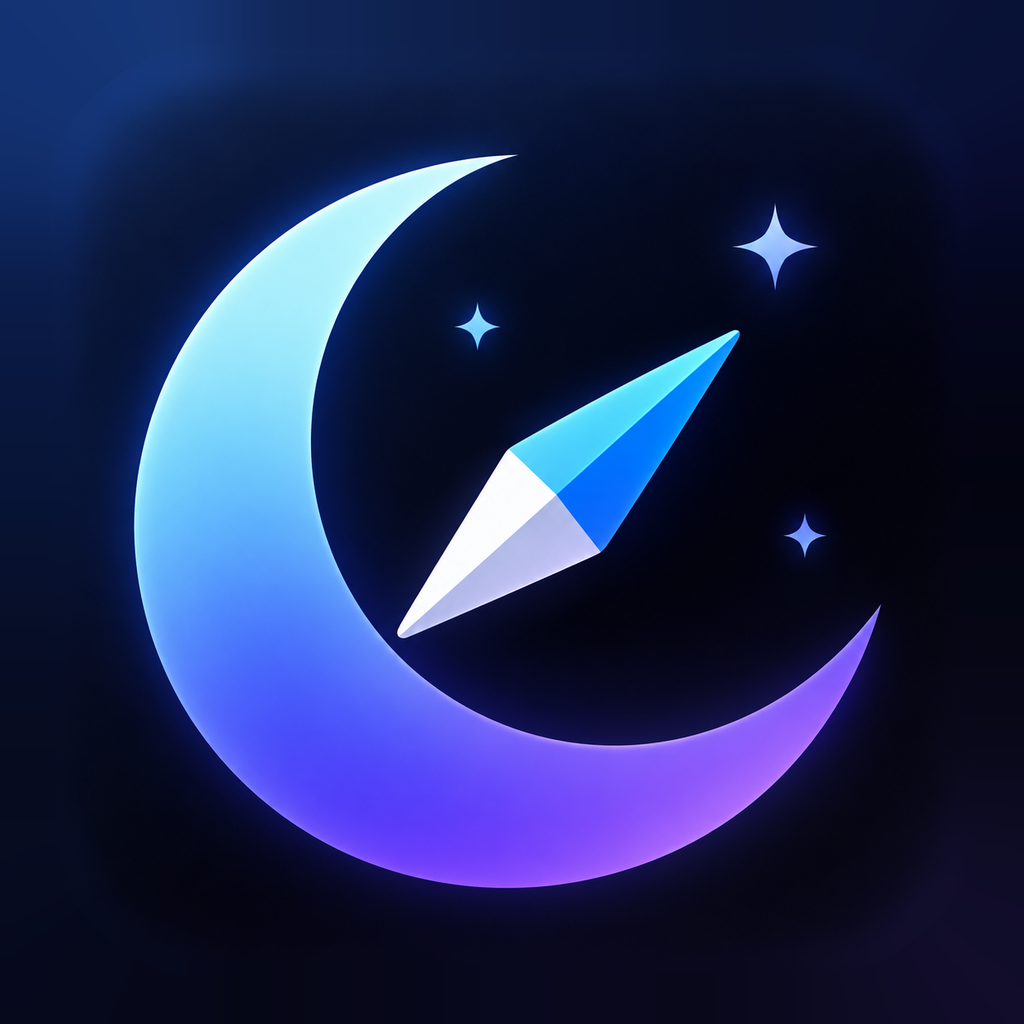
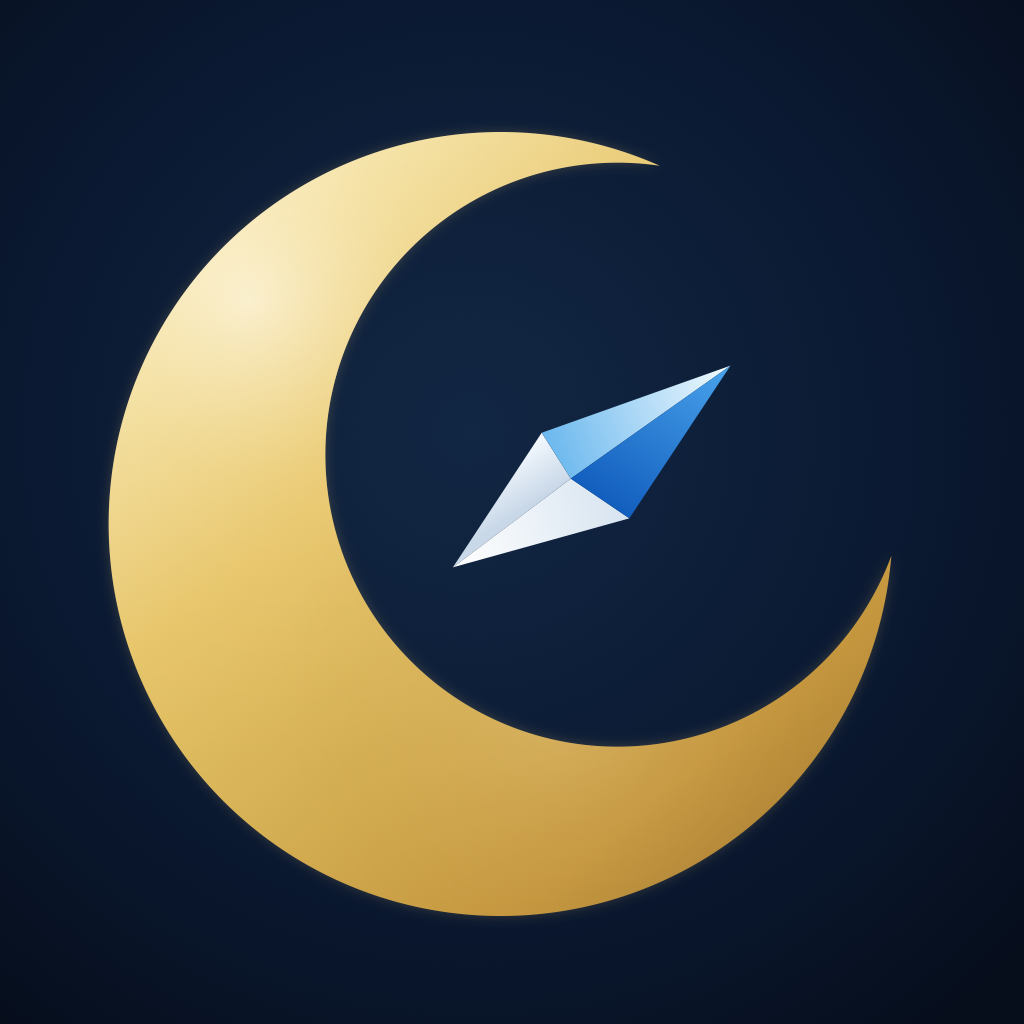
feat(website): integrate G1 gold branding and refine setup localization

diff --git a/privacy/index.html b/privacy/index.html
@@ -20,8 +20,10 @@
   <meta name="twitter:title" content="Privacy Policy – Duskio">
   <meta name="twitter:description" content="Duskio on iPhone, iPad, and Mac processes webpage appearance locally and does not transmit browsing history or webpage content to us.">
   <meta name="twitter:image" content="https://duskio.net/assets/app-icon.png">
-  <link rel="icon" href="/assets/logo-mark.png" type="image/png">
-  <link rel="apple-touch-icon" href="/assets/logo-mark.png">
+  <link rel="icon" href="/assets/favicon-32.png" type="image/png" sizes="32x32">
+  <link rel="icon" href="/assets/favicon-16.png" type="image/png" sizes="16x16">
+  <link rel="icon" href="/assets/logo-mark.png" type="image/png" sizes="256x256">
+  <link rel="apple-touch-icon" href="/assets/apple-touch-icon.png">
   <link rel="stylesheet" href="/css/main.css">
 </head>
 <body>

diff --git a/setup/index.html b/setup/index.html
@@ -20,8 +20,10 @@
   <meta name="twitter:title" content="Set Up Duskio in Safari">
   <meta name="twitter:description" content="Enable Duskio in Safari on iPhone and iPad, allow website access, and start using dark themes.">
   <meta name="twitter:image" content="https://duskio.net/assets/app-icon.png">
-  <link rel="icon" href="/assets/logo-mark.png" type="image/png">
-  <link rel="apple-touch-icon" href="/assets/logo-mark.png">
+  <link rel="icon" href="/assets/favicon-32.png" type="image/png" sizes="32x32">
+  <link rel="icon" href="/assets/favicon-16.png" type="image/png" sizes="16x16">
+  <link rel="icon" href="/assets/logo-mark.png" type="image/png" sizes="256x256">
+  <link rel="apple-touch-icon" href="/assets/apple-touch-icon.png">
   <link rel="stylesheet" href="/css/main.css">
   <link rel="stylesheet" href="/css/setup.css">
 </head>

diff --git a/index.html b/index.html
@@ -20,8 +20,10 @@
   <meta name="twitter:title" content="Duskio – Dark Mode for Safari">
   <meta name="twitter:description" content="Customizable dark mode for Safari on iPhone and iPad, with 27 themes and local processing.">
   <meta name="twitter:image" content="https://duskio.net/assets/app-icon.png">
-  <link rel="icon" href="/assets/logo-mark.png" type="image/png">
-  <link rel="apple-touch-icon" href="/assets/logo-mark.png">
+  <link rel="icon" href="/assets/favicon-32.png" type="image/png" sizes="32x32">
+  <link rel="icon" href="/assets/favicon-16.png" type="image/png" sizes="16x16">
+  <link rel="icon" href="/assets/logo-mark.png" type="image/png" sizes="256x256">
+  <link rel="apple-touch-icon" href="/assets/apple-touch-icon.png">
   <link rel="stylesheet" href="/css/main.css">
   <script type="application/ld+json">
   {

diff --git a/support/index.html b/support/index.html
@@ -20,8 +20,10 @@
   <meta name="twitter:title" content="Duskio Support">
   <meta name="twitter:description" content="Setup, appearance modes, themes, and troubleshooting for Duskio in Safari.">
   <meta name="twitter:image" content="https://duskio.net/assets/app-icon.png">
-  <link rel="icon" href="/assets/logo-mark.png" type="image/png">
-  <link rel="apple-touch-icon" href="/assets/logo-mark.png">
+  <link rel="icon" href="/assets/favicon-32.png" type="image/png" sizes="32x32">
+  <link rel="icon" href="/assets/favicon-16.png" type="image/png" sizes="16x16">
+  <link rel="icon" href="/assets/logo-mark.png" type="image/png" sizes="256x256">
+  <link rel="apple-touch-icon" href="/assets/apple-touch-icon.png">
   <link rel="stylesheet" href="/css/main.css">
   <script type="application/ld+json">
   {

diff --git a/terms/index.html b/terms/index.html
@@ -20,8 +20,10 @@
   <meta name="twitter:title" content="Terms of Use – Duskio">
   <meta name="twitter:description" content="License, compatibility, and acceptable use for Duskio.">
   <meta name="twitter:image" content="https://duskio.net/assets/app-icon.png">
-  <link rel="icon" href="/assets/logo-mark.png" type="image/png">
-  <link rel="apple-touch-icon" href="/assets/logo-mark.png">
+  <link rel="icon" href="/assets/favicon-32.png" type="image/png" sizes="32x32">
+  <link rel="icon" href="/assets/favicon-16.png" type="image/png" sizes="16x16">
+  <link rel="icon" href="/assets/logo-mark.png" type="image/png" sizes="256x256">
+  <link rel="apple-touch-icon" href="/assets/apple-touch-icon.png">
   <link rel="stylesheet" href="/css/main.css">
 </head>
 <body>

diff --git a/404.html b/404.html
@@ -9,8 +9,10 @@
   <meta name="color-scheme" content="light dark">
   <meta name="theme-color" content="#080c1a" media="(prefers-color-scheme: dark)">
   <meta name="theme-color" content="#f3f5fb" media="(prefers-color-scheme: light)">
-  <link rel="icon" href="/assets/logo-mark.png" type="image/png">
-  <link rel="apple-touch-icon" href="/assets/logo-mark.png">
+  <link rel="icon" href="/assets/favicon-32.png" type="image/png" sizes="32x32">
+  <link rel="icon" href="/assets/favicon-16.png" type="image/png" sizes="16x16">
+  <link rel="icon" href="/assets/logo-mark.png" type="image/png" sizes="256x256">
+  <link rel="apple-touch-icon" href="/assets/apple-touch-icon.png">
   <link rel="stylesheet" href="/css/main.css">
 </head>
 <body>

diff --git a/js/setup-i18n.js b/js/setup-i18n.js
@@ -597,6 +597,7 @@
     setText("languageLabel", copy.label);
     setText("eyebrow", copy.eyebrow);
     setText("title", copy.title);
+    document.title = copy.title;
     setText("description", copy.description);
 
     copy.steps.forEach(([stepTitle, stepText], index) => {

diff --git a/css/setup.css b/css/setup.css
@@ -17,8 +17,9 @@
 .setup-language-control {
   display: grid;
   gap: 0.35rem;
-  width: min(100%, 13.5rem);
-  min-width: 11.5rem;
+  width: min(100%, 18rem);
+  min-width: 12rem;
+  max-width: 100%;
   padding-top: 0.1rem;
 }
 
